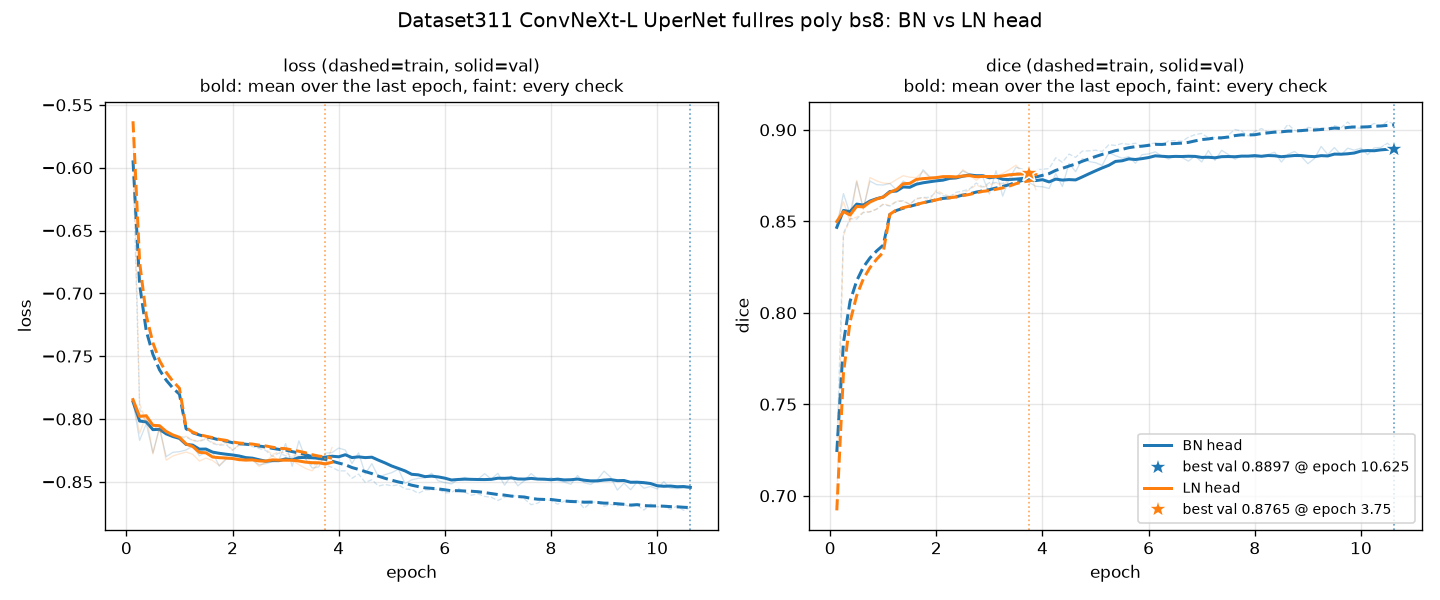
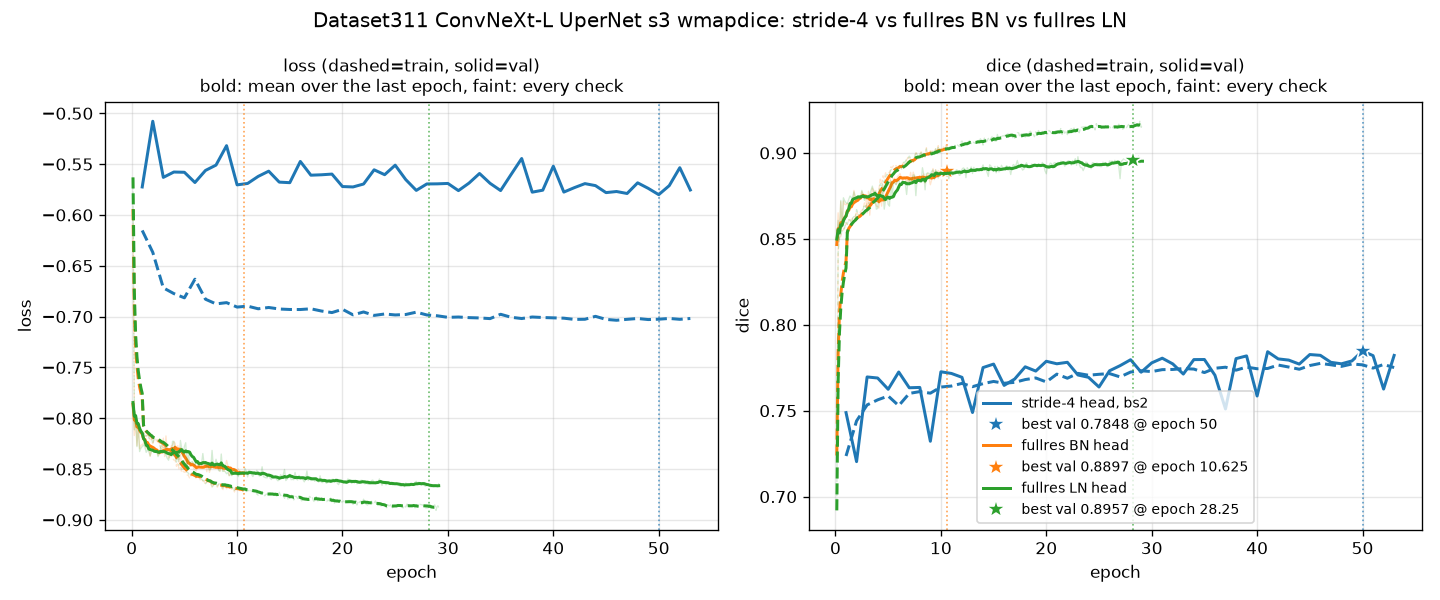
feat: update the rough patch and head comparison figures
- Add the stride-4 head runs to the ConvNeXt BN-vs-LN head figures
- Add the ViT's 896 upsampled input and a zoomed row to the halved-patch figure

diff --git a/rough/patch_downsampled.py b/rough/patch_downsampled.py
@@ -1,4 +1,5 @@
 import json
+import cv2
 from pathlib import Path
 import numpy as np
 import torch
@@ -25,14 +26,26 @@ y0 = int(np.clip(ys[k] - P // 2, 0, H - P)); x0 = int(np.clip(xs[k] - P // 2, 0,
 
 x = torch.from_numpy(img[y0:y0 + P, x0:x0 + P].astype(np.float32))[None, None]
 y = torch.from_numpy((lab[y0:y0 + P, x0:x0 + P] > 0).astype(np.float32))[None, None]
-levels = [(x, y)]
+# What a DINOv3 ViT is fed: `_resize_and_pad` resizes the patch to 896, cubic for the image and
+# nearest for the label, and the loss is taken there.
+V = 896
+up = (torch.from_numpy(cv2.resize(x[0, 0].numpy(), (V, V), interpolation=cv2.INTER_CUBIC).clip(0, 255))[None, None],
+      torch.from_numpy(cv2.resize(y[0, 0].numpy(), (V, V), interpolation=cv2.INTER_NEAREST))[None, None])
+levels = [up, (x, y)]
 for _ in range(4):
     # Plain bilinear halving (no antialias), as F.interpolate does inside a network.
     x = F.interpolate(x, scale_factor=0.5, mode="bilinear", align_corners=False)
     y = F.interpolate(y, scale_factor=0.5, mode="bilinear", align_corners=False)
     levels.append((x, y))
 
-fig, ax = plt.subplots(2, len(levels), figsize=(4.2 * len(levels), 9.2))
+# The zoom row shows one 64x64 region of the original patch in every column, centred on the labelled
+# pixel nearest the patch centre.
+Z = 64
+py, px = np.nonzero(levels[1][1][0, 0].numpy())
+c = np.argmin((py - P / 2) ** 2 + (px - P / 2) ** 2)
+zy, zx = int(np.clip(py[c] - Z // 2, 0, P - Z)), int(np.clip(px[c] - Z // 2, 0, P - Z))
+
+fig, ax = plt.subplots(3, len(levels), figsize=(4.2 * len(levels), 13.8))
 contrast = []
 for xi, yi in levels:
     # Neurite contrast: mean intensity of pixels at least a quarter covered by label, over background noise.
@@ -42,13 +55,23 @@ for xi, yi in levels:
 for i, (xi, yi) in enumerate(levels):
     s = xi.shape[-1]
     ax[0, i].imshow(xi[0, 0], cmap="gray", vmin=0, vmax=255, interpolation="nearest")
-    ax[0, i].set_title(f"{s}x{s}  (1/{P // s}, {P // s} px per pixel)" if s < P else f"{s}x{s}  original")
+    if s > P:
+        ax[0, i].set_title(f"{s}x{s}  ViT input (x{s / P:.2f}, cubic)")
+    elif s < P:
+        ax[0, i].set_title(f"{s}x{s}  (1/{P // s}, {P // s} px per pixel)")
+    else:
+        ax[0, i].set_title(f"{s}x{s}  original")
     ax[0, i].set_xlabel(f"neurite contrast {contrast[i]:.1f} background SD")
     ax[1, i].imshow(yi[0, 0], cmap="magma", vmin=0, vmax=1, interpolation="nearest")
-    ax[1, i].set_title(f"label, bilinear  (max {yi.max():.2f})", pad=4)
+    ax[1, i].set_title(f"label, {'nearest, as trained' if s > P else 'bilinear'}  (max {yi.max():.2f})", pad=4)
+    f = s / P
+    r = slice(round(zy * f), round((zy + Z) * f)), slice(round(zx * f), round((zx + Z) * f))
+    ax[2, i].imshow(xi[0, 0].numpy()[r], cmap="gray", vmin=0, vmax=255, interpolation="nearest")
+    ax[2, i].contour(yi[0, 0].numpy()[r], levels=[0.5], colors="red", linewidths=0.8)
+    ax[2, i].set_title(f"zoom {Z}x{Z} px, red: label 0.5", pad=4)
 for a in ax.flat: a.set_xticks([]); a.set_yticks([])
 fig.subplots_adjust(hspace=0.15, wspace=0.05)
-fig.suptitle(f"{case} 512 patch at {(x0, y0)}, halved 4 times with bilinear interpolation, shown at equal size")
+fig.suptitle(f"{case} 512 patch at {(x0, y0)}, upsampled to the ViT's 896 and halved 4 times with bilinear interpolation, shown at equal size")
 fig.savefig(Path(__file__).with_suffix(".png"), dpi=110, bbox_inches="tight")
 for (xi, yi), c in zip(levels, contrast):
     print(xi.shape[-1], "label max %.2f, contrast %.1f SD" % (yi.max(), c))

diff --git a/rough/bn_vs_ln_head_curves.py b/rough/bn_vs_ln_head_curves.py
@@ -3,6 +3,8 @@ from fm_adaptation.plot_history import _read_history, _plot
 root = Path("models/dinov3/Dataset311_neurite_yvonne_in_vitro_sim_smi_slices")
 out = Path(__file__).parent
 for tag, stem in (("T", "convnextt"), ("L", "convnext")):
-    curves = [(f"{name} head", _read_history(root / f"{stem}_upernet_fullres{infix}_ft_aug_p512_red_s3_wmapdice_poly_bs8_ours/fold_0/history.csv"))
-              for name, infix in (("BN", ""), ("LN", "_ln"))]
-    _plot(curves, f"Dataset311 ConvNeXt-{tag} UperNet fullres poly bs8: BN vs LN head", out / f"convnext{tag.lower()}_bn_vs_ln.png")
+    runs = (("stride-4 head, bs2", "_ft_aug_p512_red_s3_wmapdice_ours"),
+            ("fullres BN head", "_fullres_ft_aug_p512_red_s3_wmapdice_poly_bs8_ours"),
+            ("fullres LN head", "_fullres_ln_ft_aug_p512_red_s3_wmapdice_poly_bs8_ours"))
+    curves = [(name, _read_history(root / f"{stem}_upernet{suffix}/fold_0/history.csv")) for name, suffix in runs]
+    _plot(curves, f"Dataset311 ConvNeXt-{tag} UperNet s3 wmapdice: stride-4 vs fullres BN vs fullres LN", out / f"convnext{tag.lower()}_bn_vs_ln.png")
